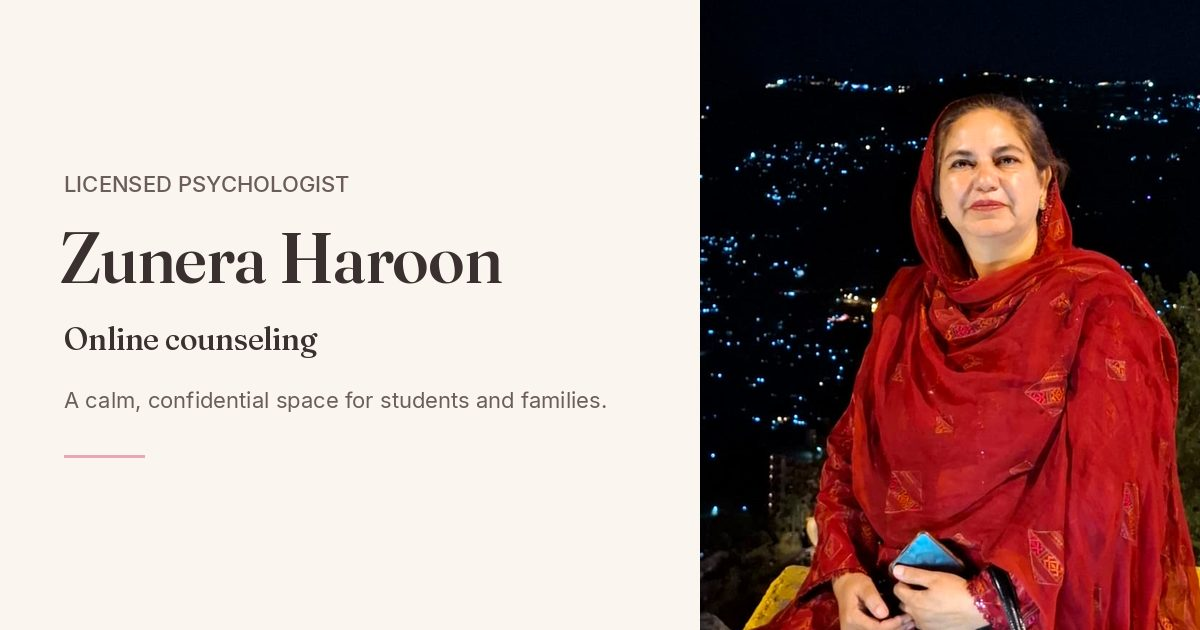
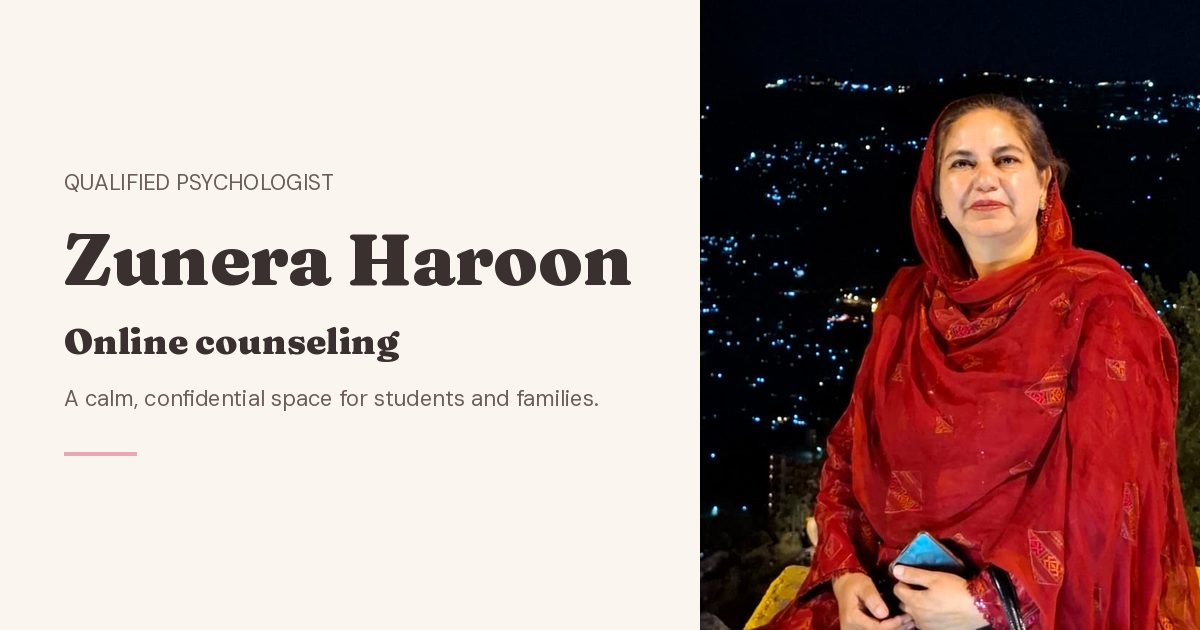
Call her a qualified psychologist instead of licensed.
She does not have a license yet, so the page title, about copy, and share image no longer say licensed.

diff --git a/index.html b/index.html
@@ -3,12 +3,12 @@
 <head>
   <meta charset="utf-8">
   <meta name="viewport" content="width=device-width, initial-scale=1">
-  <title>Zunera Haroon | Licensed Psychologist, Online Counseling in Pakistan</title>
+  <title>Zunera Haroon | Qualified Psychologist, Online Counseling in Pakistan</title>
   <meta name="description" content="Online counseling in Pakistan for students and families. Support for academic stress, anxiety, depression and substance use with psychologist Zunera Haroon.">
   <meta name="theme-color" content="#FAF6EF">
   <meta name="color-scheme" content="light">
   <!-- TODO: When SITE_URL is set in script.js, a canonical link and absolute social image URL are added automatically. You can also hard-code them here. -->
-  <meta property="og:title" content="Zunera Haroon | Licensed Psychologist, Online Counseling in Pakistan">
+  <meta property="og:title" content="Zunera Haroon | Qualified Psychologist, Online Counseling in Pakistan">
   <meta property="og:description" content="Online counseling in Pakistan for students and families. Support for academic stress, anxiety, depression and substance use with psychologist Zunera Haroon.">
   <meta property="og:type" content="website">
   <meta property="og:locale" content="en_US">
@@ -16,12 +16,12 @@
   <meta property="og:image" content="assets/og-image.jpg">
   <meta property="og:image:width" content="1200">
   <meta property="og:image:height" content="630">
-  <meta property="og:image:alt" content="Zunera Haroon, licensed psychologist offering online counseling">
+  <meta property="og:image:alt" content="Zunera Haroon, qualified psychologist offering online counseling">
   <meta name="twitter:card" content="summary_large_image">
-  <meta name="twitter:title" content="Zunera Haroon | Licensed Psychologist, Online Counseling in Pakistan">
+  <meta name="twitter:title" content="Zunera Haroon | Qualified Psychologist, Online Counseling in Pakistan">
   <meta name="twitter:description" content="Online counseling in Pakistan for students and families. Support for academic stress, anxiety, depression and substance use with psychologist Zunera Haroon.">
   <meta name="twitter:image" content="assets/og-image.jpg">
-  <meta name="twitter:image:alt" content="Zunera Haroon, licensed psychologist offering online counseling">
+  <meta name="twitter:image:alt" content="Zunera Haroon, qualified psychologist offering online counseling">
   <link rel="icon" href="favicon.svg" type="image/svg+xml">
   <link rel="preconnect" href="https://fonts.googleapis.com">
   <link rel="preconnect" href="https://fonts.gstatic.com" crossorigin>
@@ -35,7 +35,7 @@
       {
         "@type": "Person",
         "name": "Zunera Haroon",
-        "jobTitle": "Licensed Psychologist",
+        "jobTitle": "Qualified Psychologist",
         "email": "zunera194@gmail.com",
         "address": {
           "@type": "PostalAddress",
@@ -97,11 +97,11 @@
           <div class="portrait-shape" aria-hidden="true"></div>
           <picture>
             <source srcset="assets/headshot.webp" type="image/webp">
-            <img src="assets/headshot.jpg" width="800" height="1000" alt="Zunera Haroon, licensed psychologist, seated at night in a red headscarf with city lights behind her." fetchpriority="high">
+            <img src="assets/headshot.jpg" width="800" height="1000" alt="Zunera Haroon, qualified psychologist, seated at night in a red headscarf with city lights behind her." fetchpriority="high">
           </picture>
         </div>
         <div class="hero-copy">
-          <p class="eyebrow">Licensed Psychologist · Online Counseling</p>
+          <p class="eyebrow">Qualified Psychologist · Online Counseling</p>
           <h1 id="hero-title">A calm, confidential space to feel heard and move forward.</h1>
           <p class="lede">Compassionate, evidence-based counseling for students and families, offered online at times that suit you.</p>
           <div class="actions">
@@ -149,7 +149,7 @@
           <h2 id="about-title">Hello, I'm <span data-field="name">Zunera Haroon</span></h2>
         </div>
         <div class="prose">
-          <p>I'm a licensed psychologist with <mark>more than 16 years of experience</mark> across education, clinical counseling and institutional leadership. I currently support students dealing with <mark>academic stress, anxiety and depression</mark>, helping them build confidence, social skills and healthier ways to cope.</p>
+          <p>I'm a qualified psychologist with <mark>more than 16 years of experience</mark> across education, clinical counseling and institutional leadership. I currently support students dealing with <mark>academic stress, anxiety and depression</mark>, helping them build confidence, social skills and healthier ways to cope.</p>
           <p>My clinical training includes an internship at a <mark>drug rehabilitation center in Rawalpindi</mark>, specialist training in CBT for substance use, and work with international programs on drug demand reduction. I'm currently pursuing my <mark>MPhil in Psychology</mark>, with research on <mark>culturally adapted CBT</mark> for women with substance use disorder.</p>
           <p>My approach is simple: <mark>you set the pace</mark>, I listen <mark>without judgment</mark>, and together we work on what matters to you.</p>
         </div>
@@ -368,7 +368,7 @@
   <footer class="site-footer">
     <div class="wrap">
       <p class="footer-name" data-field="name">Zunera Haroon</p>
-      <p data-field="title">Licensed Psychologist</p>
+      <p data-field="title">Qualified Psychologist</p>
       <p>Islamabad, Pakistan · Online sessions</p>
       <p><a data-link="email" data-field="email" href="mailto:zunera194@gmail.com">zunera194@gmail.com</a></p>
       <p class="disclaimer">This website provides general information and is not a substitute for emergency care. If you or someone you know is in immediate danger, please contact local emergency services right away. [ADD A VERIFIED LOCAL CRISIS HELPLINE]</p>

diff --git a/script.js b/script.js
@@ -2,7 +2,7 @@
    CONFIG — edit these values. They are reused across the page.
    ------------------------------------------------------------
    NAME            = "Zunera Haroon"            // [CONFIRM SPELLING]
-   TITLE           = "Licensed Psychologist"
+   TITLE           = "Qualified Psychologist"
    WHATSAPP_NUMBER = "923345516998"             // [CONFIRM THIS IS HER WHATSAPP NUMBER]
    WHATSAPP_PREFILL = greeting used in every WhatsApp link
    EMAIL           = "zunera194@gmail.com"      // [CONFIRM]
@@ -16,7 +16,7 @@
    ============================================================ */
 const CONFIG = {
   NAME: "Zunera Haroon", // [CONFIRM SPELLING]
-  TITLE: "Licensed Psychologist",
+  TITLE: "Qualified Psychologist",
   WHATSAPP_NUMBER: "923345516998", // [CONFIRM THIS IS HER WHATSAPP NUMBER]
   WHATSAPP_PREFILL: "Assalamu alaikum, I would like to book a counseling session.",
   EMAIL: "zunera194@gmail.com", // [CONFIRM]
@@ -39,7 +39,7 @@ const CONFIG = {
     encodeURIComponent(CONFIG.WHATSAPP_PREFILL);
 
   const bookingReady = isSet(CONFIG.BOOKING_LINK);
-  const pageTitle = CONFIG.NAME + " | Licensed Psychologist, Online Counseling in Pakistan";
+  const pageTitle = CONFIG.NAME + " | " + CONFIG.TITLE + ", Online Counseling in Pakistan";
 
   document.querySelectorAll("[data-field='name']").forEach(function (el) {
     el.textContent = CONFIG.NAME;

diff --git a/README.md b/README.md
@@ -1,6 +1,6 @@
 # Zunera Haroon — Online Counseling
 
-A single-page site for Zunera Haroon, a licensed psychologist offering online counseling. It is plain HTML, CSS, and JavaScript. Open `index.html` in a browser, or serve the folder with any static host. No build step and no configuration file.
+A single-page site for Zunera Haroon, a qualified psychologist offering online counseling. It is plain HTML, CSS, and JavaScript. Open `index.html` in a browser, or serve the folder with any static host. No build step and no configuration file.
 
 ## Run it locally
 
